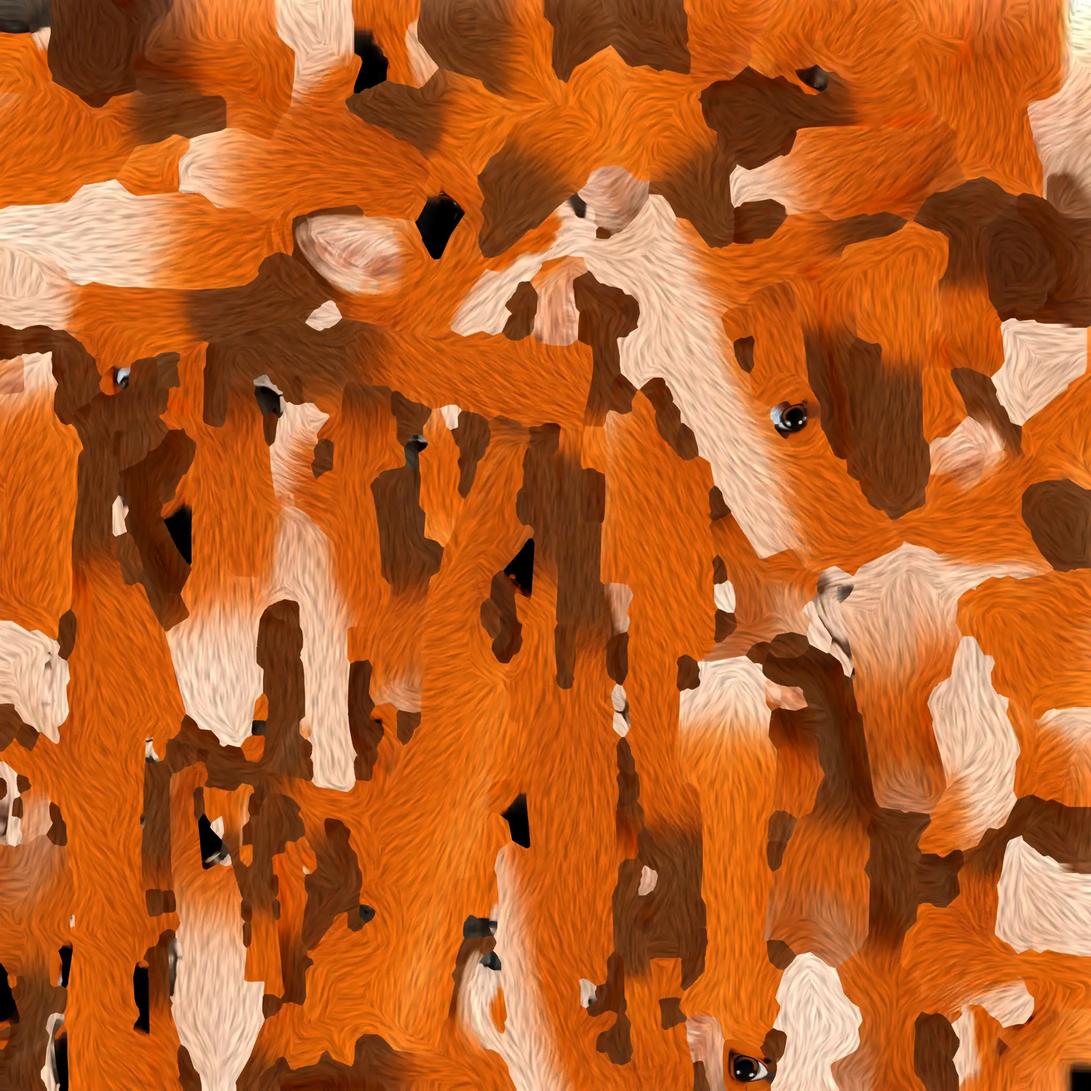
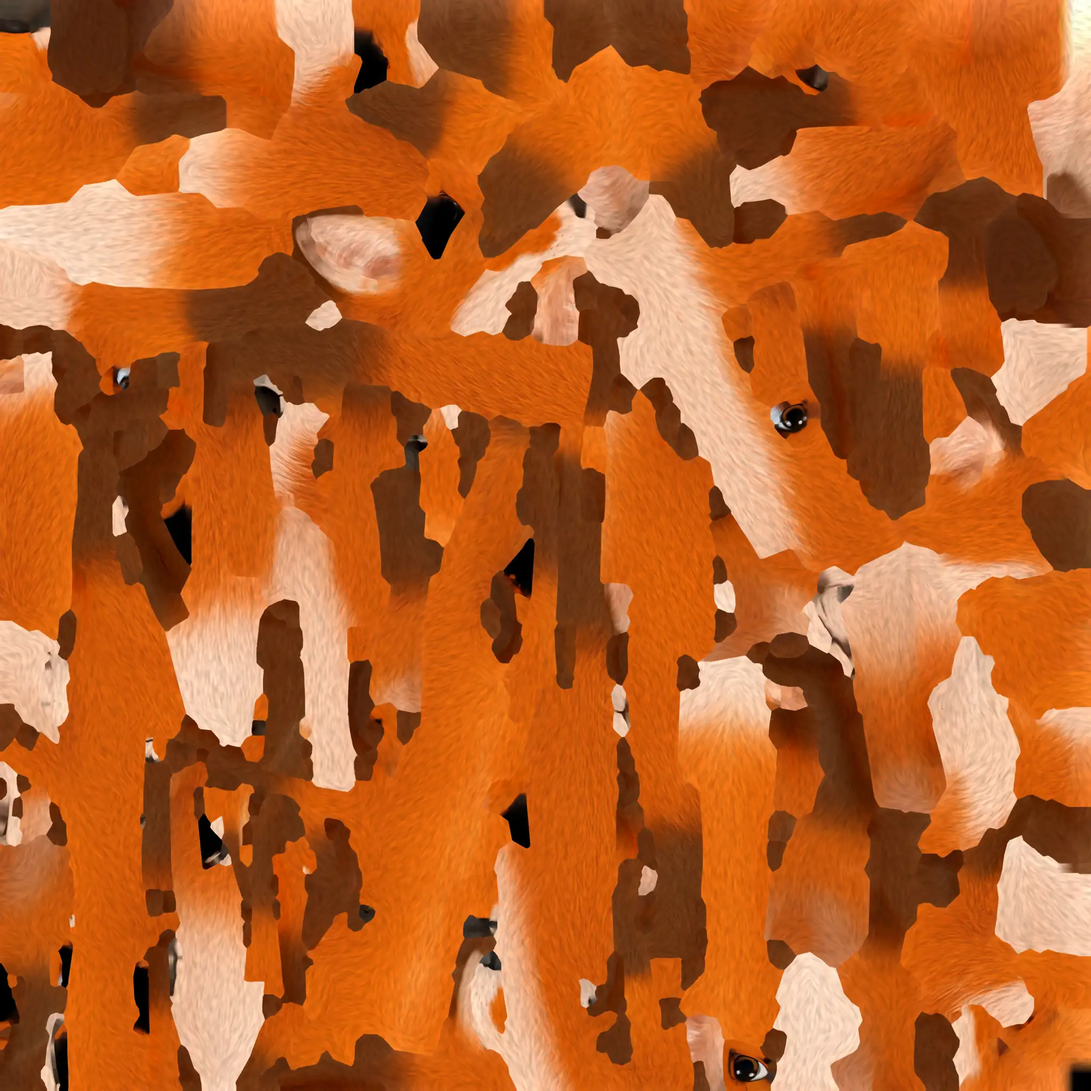
fix(tools): make the added fur strands of the fox softer
The added strands of the fox read as deep carved grooves, as in wood
or clay. One height gives the color strands and the tilts, so each
dark groove of the color map is also a groove of the normals. The
strands were also longer and more regular than the strands of the
Tripo bakes (length 10.6 texels and coherence 0.78, against 4.1 and
0.58 on the cat).

STRANDS now has the RMS tilt 0.03 (was 0.06), the luma factor 0.08
(was 0.16), and the half length 11 texels (was 22). The fur keeps
visible soft strands. The maps are smaller: the color map 172,080
bytes (was 237,596), the tan map 178,228 (was 245,498), and the
normal map 99,334 (was 180,102). They load after the first frame.

diff --git a/tools/fox-maps.py b/tools/fox-maps.py
@@ -72,16 +72,20 @@ STRANDS = {
     'direction_sigma': 24.0,
     #: The sigma in texels at SIZE of the blur of the noise: the width of a strand.
     'width_sigma': 1.4,
-    #: The half length in texels at SIZE of a strand, and the step of its samples.
-    'half_length': 22.0,
+    #: The half length in texels at SIZE of a strand, and the step of its samples. Longer strands
+    #: lay long parallel grooves over the body, which read as carved wood or clay.
+    'half_length': 11.0,
     'step': 1.0,
     #: The sigma in texels at SIZE of the blur that the height of the strands loses (a high pass).
     'high_pass_sigma': 10.0,
-    #: The root mean square of the x, y tilt of the strands in the normal map.
-    'tilt': 0.06,
+    #: The root mean square of the x, y tilt of the strands in the normal map. The color strands
+    #: and the tilts come from one height, so each dark groove of the color map is also a groove of
+    #: the normals. The two cues add, so a smaller tilt than the tilts of the Tripo cat and wolf
+    #: is sufficient.
+    'tilt': 0.03,
     #: The luma factor of the strands in the color map, for each standard deviation of the height:
     #: a strand crest is lighter, and a groove darker.
-    'luma': 0.16,
+    'luma': 0.08,
     #: The largest height of a strand, in standard deviations.
     'clip': 2.5,
 }

diff --git a/assets/models/fox/README.md b/assets/models/fox/README.md
@@ -272,8 +272,8 @@ colors. The gaze shift of `tools/gaze_shift.py` is off (`GAZE_SHIFT`).
 the sRGB gamut takes the largest chroma in the gamut at its new lightness and hue. The share of the
 step of a texel falls to 0 for a chroma below 0.09, a lightness above 0.82, or a hue more than 25
 degrees from 50 degrees, so the cream, the dark socks, the lines, and the white keep the colors of
-the source. The texels of the fur (58.1 % of the map) go from the median Oklab L 0.612, C 0.166,
-h 46.0 to L 0.672, C 0.149, h 63.9.
+the source. The texels of the fur (58.3 % of the map) go from the median Oklab L 0.613, C 0.167,
+h 46.0 to L 0.673, C 0.149, h 63.9.
 
 **Normal map.** The same run writes `fox-normal.webp` from the normal map of the FBX: each x, y tilt
 limited to 0.2 (0.65 % of the texels), a box scale to 1024 pixels, plus the tilts of the strands,
@@ -291,8 +291,21 @@ mean at 2048 pixels, and the tilt of the normal map at 1024 pixels):
 | Normal: tilt, median | 0.006 | 0.006 | 0.028 | 0.023 |
 | Normal: tilt, mean | 0.018 | 0.018 | 0.044 | 0.052 |
 
-So the maps tool adds the strands of `strands()` (`STRANDS`, seed 7) as on the fox before: the
-strand contrast of the web color map is 0.137 by the same measure.
+So the maps tool adds the strands of `strands()` (`STRANDS`, seed 7): the RMS tilt 0.03, the luma
+factor 0.08, and the half length 11 texels at 2048 pixels. The strand contrast of the web color
+map is 0.065 by the same measure over the fur faces of the rig file.
+
+The first strands had the tilt 0.06, the luma factor 0.16, and the half length 22 texels (the
+strand contrast 0.128 by the same measure). In the hall they read as deep carved grooves, as in
+wood or clay. One height gives the color strands and the tilts, so each dark groove of the color
+map is also a groove of the normals, and the two cues add. The long strands were also more regular
+than the strands of the Tripo bakes (`scratch/fur_measure.py` of the round, at 1024 pixels):
+
+| Measure | Fox, first strands | Fox now | Tripo cat | Tripo wolf | Tripo dog |
+|---|---|---|---|---|---|
+| Strand length (half the peak of the autocorrelation), texels | 10.6 | 6.5 | 4.1 | 8.8 | 5.6 |
+| Coherence of the strand direction, color map | 0.78 | 0.58 | 0.58 | 0.67 | 0.45 |
+| High-pass RMS tilt | 0.051 | 0.027 | 0.055 | 0.059 | 0.015 |
 
 **Hall colors.** The median Oklab L, C, h of the orange fur (C above 0.05, h 20 to 80 degrees, L
 0.25 to 0.85) in crops of `pnpm close-views play --demo beethoven-5-4 --at <species> --azimuth 40
@@ -320,9 +333,9 @@ The export of the file and the maps. License of each file: CC BY-NC 4.0, as the 
 |---|---|---|
[8 lines of base64/hex data omitted]
 
 ### History
 
